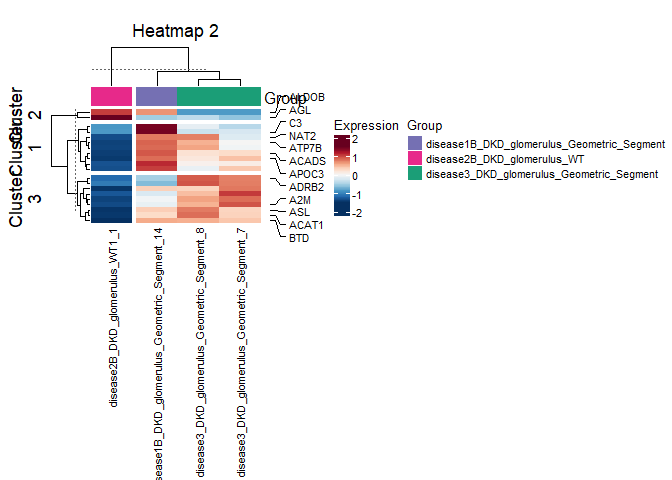
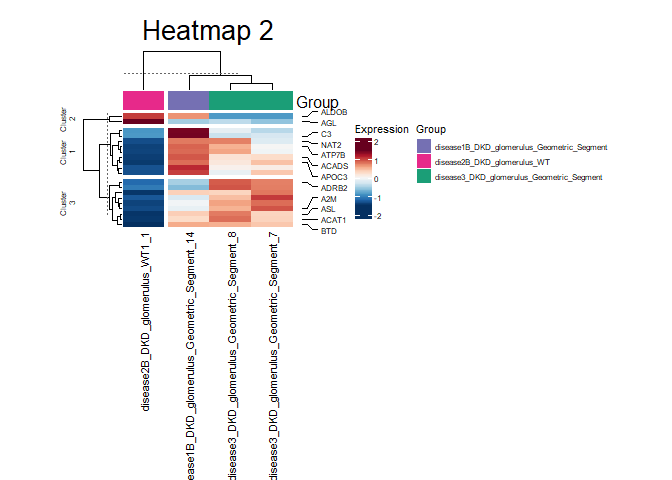
update readme for more fontsize options (title, cluster titles, ...)

Changed region(s): [[0.0, 0.0312, 1.0, 1.0]]

diff --git a/README.md b/README.md
@@ -374,7 +374,11 @@ row_anno_number = 5                                   # optional change: number 
 fontsize_rowAnnotation = 8                            # optional change: fontsize of the optional row annotation
 fontsize_columnNames = 6                              # optional change: fontsize of the optional column names
 fontsize_rowNames = 4                                 # optional change: fontsize of the optional row names
-fontsize_group_annotation = 10                        # optional change: fontsize of group annotation
+fontsize_cluster_labels = 8                           # optional change: fontsize of the cluster labels, default = 8
+fontsize_group_annotation_legend = 10                 # optional change: fontsize of optional group annotation legend title, default = 10
+fontsize_group_annotation_labels = 8                  # optional change: fontsize of optional group annotation legend labels, default = 8
+fontsize_heatmap_legend = 10                          # optional change: fontsize of heatmap legend, default = 10
+fontsize_heatmap_legend_labels = 8                    # optional change: fontsize of heatmap legend labels, default = 8
 title_heatmapLegend = "Expression"                    # changeable title of the legend, default "Expression"
 WidthNum = 4.5                                        # optional change of heatmap width
 HeightNum = 3                                         # optional change of heatmap height
@@ -456,9 +460,11 @@ row_annotation = FALSE                                # optional row annotation,
 row_annotation_method = "auto"                        # set if row_annotation = TRUE: options are "auto" & "specific"
 row_anno_names = NULL                                 # set if row_annotation = TRUE & row_annotation_method = "specific: input list of specific genes for the row annotation
 row_anno_number = 5                                   # optional change: number of automatic row annotations per cluster
+fontsize_title = 15                                   # optional change: fontsize the heatmap title, default = 15
 fontsize_rowAnnotation = 8                            # optional change: fontsize of the optional row annotation, default = 8
 fontsize_columnNames = 6                              # optional change: fontsize of the optional column names, default = 6
 fontsize_rowNames = 4                                 # optional change: fontsize of the optional row names, default = 4
+fontsize_cluster_labels = 8                           # optional change: fontsize of the cluster labels, default = 8
 fontsize_group_annotation_legend = 10                 # optional change: fontsize of optional group annotation legend title, default = 10
 fontsize_group_annotation_labels = 8                  # optional change: fontsize of optional group annotation legend labels, default = 8
 fontsize_heatmap_legend = 10                          # optional change: fontsize of heatmap legend, default = 10
@@ -468,7 +474,7 @@ WidthNum = 4.5                                        # optional change of heatm
 HeightNum = 3                                         # optional change of heatmap height, default = 3
 UnitSize = "cm"                                       # optional change of heatmap unit for sizes, default = "cm"
 
-hm <- adv_Heatmap(ncounts_matrix, seed = seed, column_name = column_name, colorPalette = colorPalette, cluster_method = cluster_method, cluster_rows = cluster_rows, cluster_columns = cluster_columns, k_row = k_row, k_col = k_col, sample_metadata = sample_metadata, annotation_colors = annotation_colors, annotation_name_side = annotation_name_side, show_row_names = show_row_names, show_column_names = show_column_names, row_annotation = row_annotation, row_annotation_method = row_annotation_method, row_anno_names = row_anno_names ,row_anno_number = row_anno_number, fontsize_rowAnnotation = fontsize_rowAnnotation, fontsize_columnNames = fontsize_columnNames, fontsize_rowNames = fontsize_rowNames, title_heatmapLegend = title_heatmapLegend, WidthNum = WidthNum, HeightNum = HeightNum, UnitSize = UnitSize)
+hm <- adv_Heatmap(ncounts_matrix, seed = seed, column_name = column_name, colorPalette = colorPalette, cluster_method = cluster_method, cluster_rows = cluster_rows, cluster_columns = cluster_columns, k_row = k_row, k_col = k_col, sample_metadata = sample_metadata, annotation_colors = annotation_colors, annotation_name_side = annotation_name_side, show_row_names = show_row_names, show_column_names = show_column_names, row_annotation = row_annotation, row_annotation_method = row_annotation_method, row_anno_names = row_anno_names ,row_anno_number = row_anno_number, fontsize_title = fontsize_title, fontsize_rowAnnotation = fontsize_rowAnnotation, fontsize_columnNames = fontsize_columnNames, fontsize_rowNames = fontsize_rowNames, fontsize_cluster_labels = fontsize_cluster_labels, fontsize_group_annotation_legend = fontsize_group_annotation_legend, fontsize_group_annotation_labels = fontsize_group_annotation_labels, fontsize_heatmap_legend = fontsize_heatmap_legend, fontsize_heatmap_legend_labels = fontsize_heatmap_legend_labels, title_heatmapLegend = title_heatmapLegend, WidthNum = WidthNum, HeightNum = HeightNum, UnitSize = UnitSize)
 ```
 
 <img src="man/figures/README-exampleadv_heatmap-1.png" width="100%" />
@@ -497,19 +503,21 @@ row_annotation = TRUE                                # optional row annotation, 
 row_annotation_method = "auto"                        # set if row_annotation = TRUE: options are "auto" & "specific"
 row_anno_names = NULL                                 # set if row_annotation = TRUE & row_annotation_method = "specific: input list of specific genes for the row annotation
 row_anno_number = 5                                   # optional change: number of automatic row annotations per cluster
-fontsize_rowAnnotation = 8                            # optional change: fontsize of the optional row annotation, default = 8
+fontsize_title = 20                                   # optional change: fontsize the heatmap title, default = 15
+fontsize_rowAnnotation = 6                            # optional change: fontsize of the optional row annotation, default = 8
 fontsize_columnNames = 8                              # optional change: fontsize of the optional column names, default = 6
 fontsize_rowNames = 4                                 # optional change: fontsize of the optional row names, default = 4
-fontsize_group_annotation_legend = 10                 # optional change: fontsize of optional group annotation legend title, default = 10
-fontsize_group_annotation_labels = 8                  # optional change: fontsize of optional group annotation legend labels, default = 8
-fontsize_heatmap_legend = 10                          # optional change: fontsize of heatmap legend, default = 10
-fontsize_heatmap_legend_labels = 8                    # optional change: fontsize of heatmap legend labels, default = 8
+fontsize_cluster_labels = 6                           # optional change: fontsize of the cluster labels, default = 8
+fontsize_group_annotation_legend = 8                 # optional change: fontsize of optional group annotation legend title, default = 10
+fontsize_group_annotation_labels = 6                  # optional change: fontsize of optional group annotation legend labels, default = 8
+fontsize_heatmap_legend = 8                          # optional change: fontsize of heatmap legend, default = 10
+fontsize_heatmap_legend_labels = 6                    # optional change: fontsize of heatmap legend labels, default = 8
 title_heatmapLegend = "Expression"                    # changeable title of the legend, default "Expression"
 WidthNum = 4.5                                        # optional change of heatmap width, default = 4.5
 HeightNum = 3                                         # optional change of heatmap height, default = 3
 UnitSize = "cm"                                       # optional change of heatmap unit for sizes, default = "cm"
 
-hm <- adv_Heatmap(ncounts_matrix, seed = seed, column_name = column_name, colorPalette = colorPalette, cluster_method = cluster_method, cluster_rows = cluster_rows, cluster_columns = cluster_columns, k_row = k_row, k_col = k_col, sample_metadata = sample_metadata, annotation_colors = annotation_colors, annotation_name_side = annotation_name_side, show_row_names = show_row_names, show_column_names = show_column_names, row_annotation = row_annotation, row_annotation_method = row_annotation_method, row_anno_names = row_anno_names ,row_anno_number = row_anno_number, fontsize_rowAnnotation = fontsize_rowAnnotation, fontsize_columnNames = fontsize_columnNames, fontsize_rowNames = fontsize_rowNames, title_heatmapLegend = title_heatmapLegend, WidthNum = WidthNum, HeightNum = HeightNum, UnitSize = UnitSize)
+hm <- adv_Heatmap(ncounts_matrix, seed = seed, column_name = column_name, colorPalette = colorPalette, cluster_method = cluster_method, cluster_rows = cluster_rows, cluster_columns = cluster_columns, k_row = k_row, k_col = k_col, sample_metadata = sample_metadata, annotation_colors = annotation_colors, annotation_name_side = annotation_name_side, show_row_names = show_row_names, show_column_names = show_column_names, row_annotation = row_annotation, row_annotation_method = row_annotation_method, row_anno_names = row_anno_names ,row_anno_number = row_anno_number, fontsize_title = fontsize_title, fontsize_rowAnnotation = fontsize_rowAnnotation, fontsize_columnNames = fontsize_columnNames, fontsize_rowNames = fontsize_rowNames, fontsize_cluster_labels = fontsize_cluster_labels, fontsize_group_annotation_legend = fontsize_group_annotation_legend, fontsize_group_annotation_labels = fontsize_group_annotation_labels, fontsize_heatmap_legend = fontsize_heatmap_legend, fontsize_heatmap_legend_labels = fontsize_heatmap_legend_labels, title_heatmapLegend = title_heatmapLegend, WidthNum = WidthNum, HeightNum = HeightNum, UnitSize = UnitSize)
 ```
 
 <img src="man/figures/README-K_meansadv_heatmap-1.png" width="100%" />
